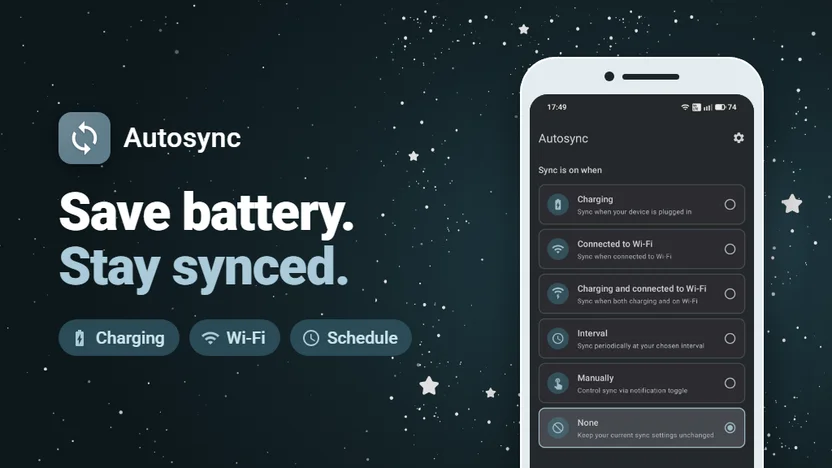
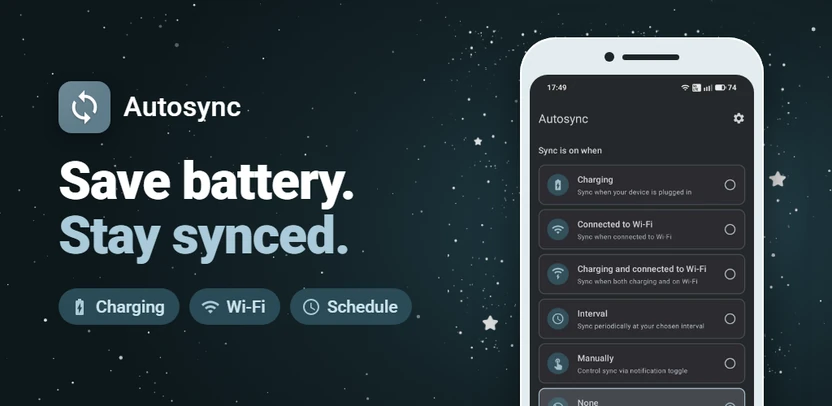
Show app tiles at the Play graphic's 2.05:1 ratio so none are cropped (#26)

diff --git a/css/compiled/base.css b/css/compiled/base.css
@@ -206,7 +206,7 @@ a {
       border: 0;
       width: 100%; }
     .content .apps .feature {
-      aspect-ratio: 16 / 9;
+      aspect-ratio: 832 / 406;
       object-fit: cover;
       border-radius: 8px;
       background-color: #eeeeee; }

diff --git a/css/scss/base.scss b/css/scss/base.scss
@@ -280,7 +280,7 @@ a {
     }
 
     .feature {
-      aspect-ratio: 16 / 9;
+      aspect-ratio: 832 / 406;
       object-fit: cover;
       border-radius: 8px;
       background-color: $light-grey;
